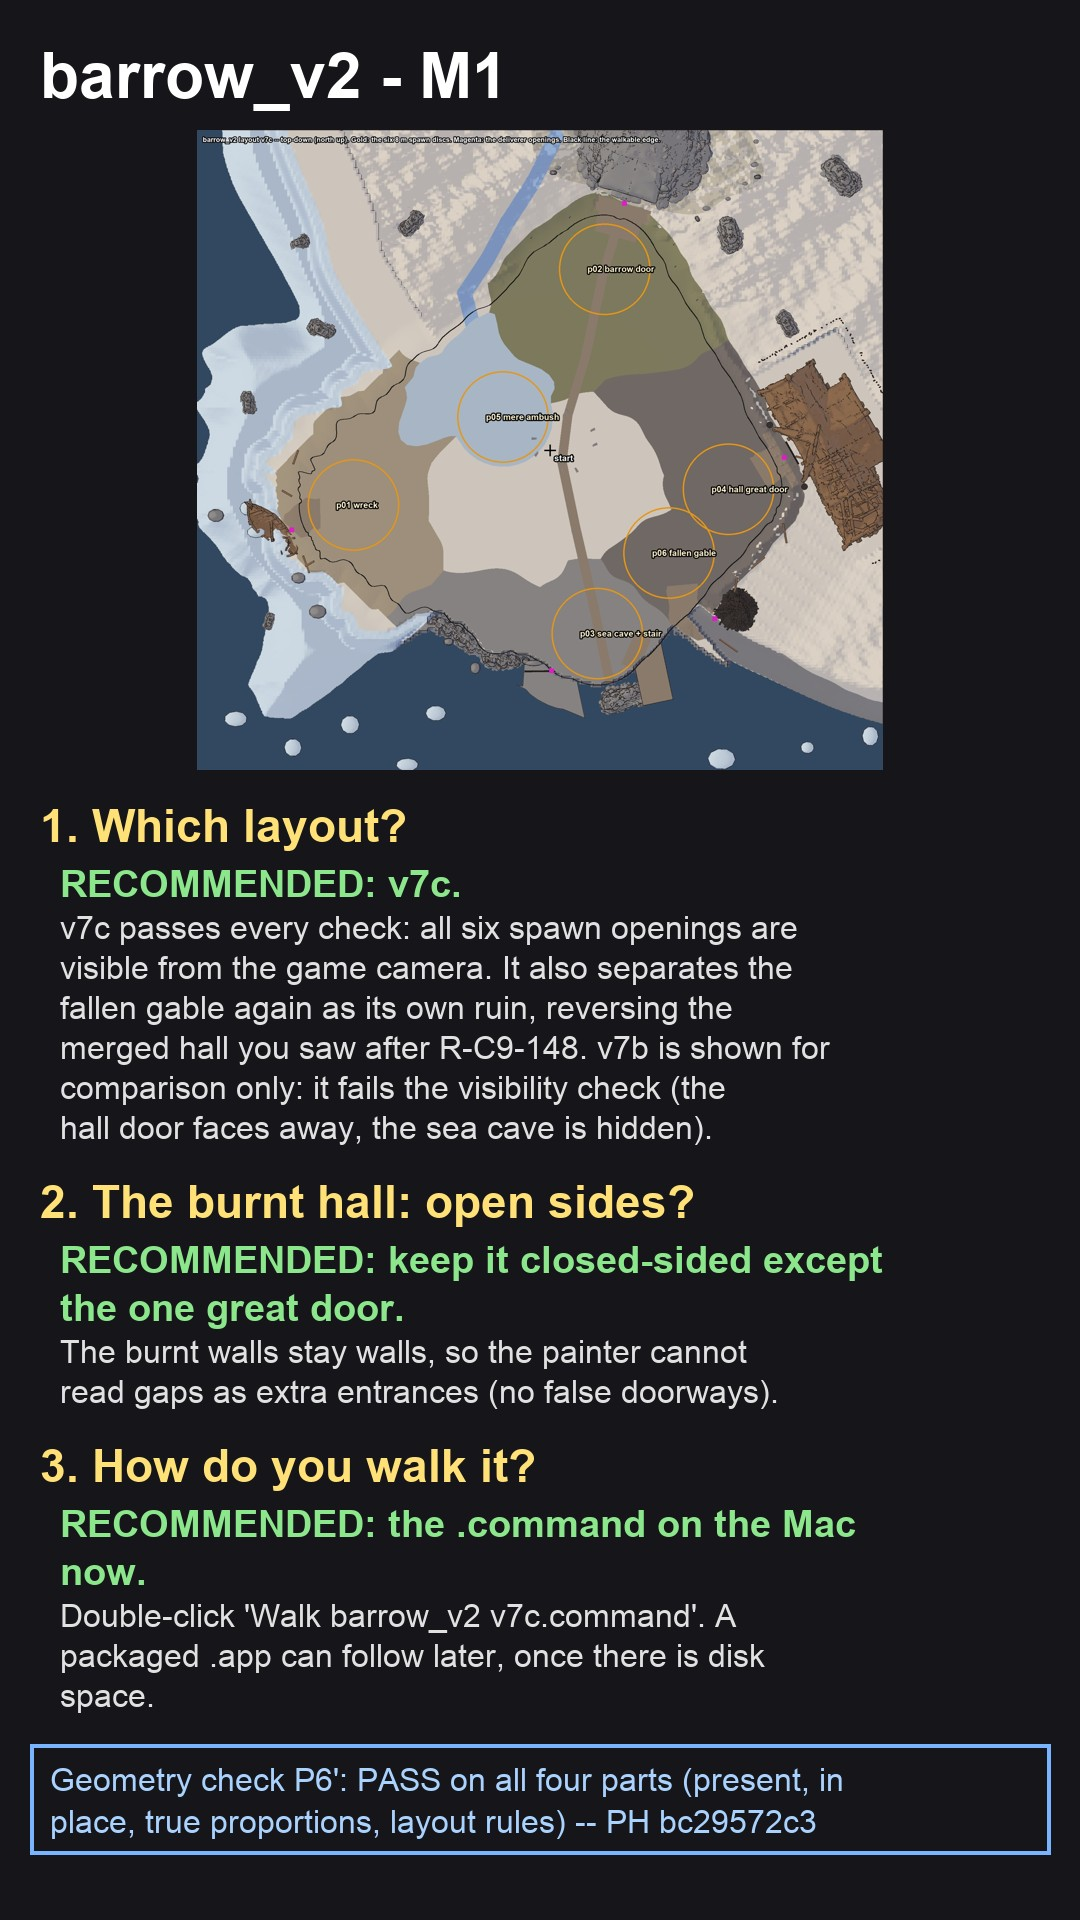
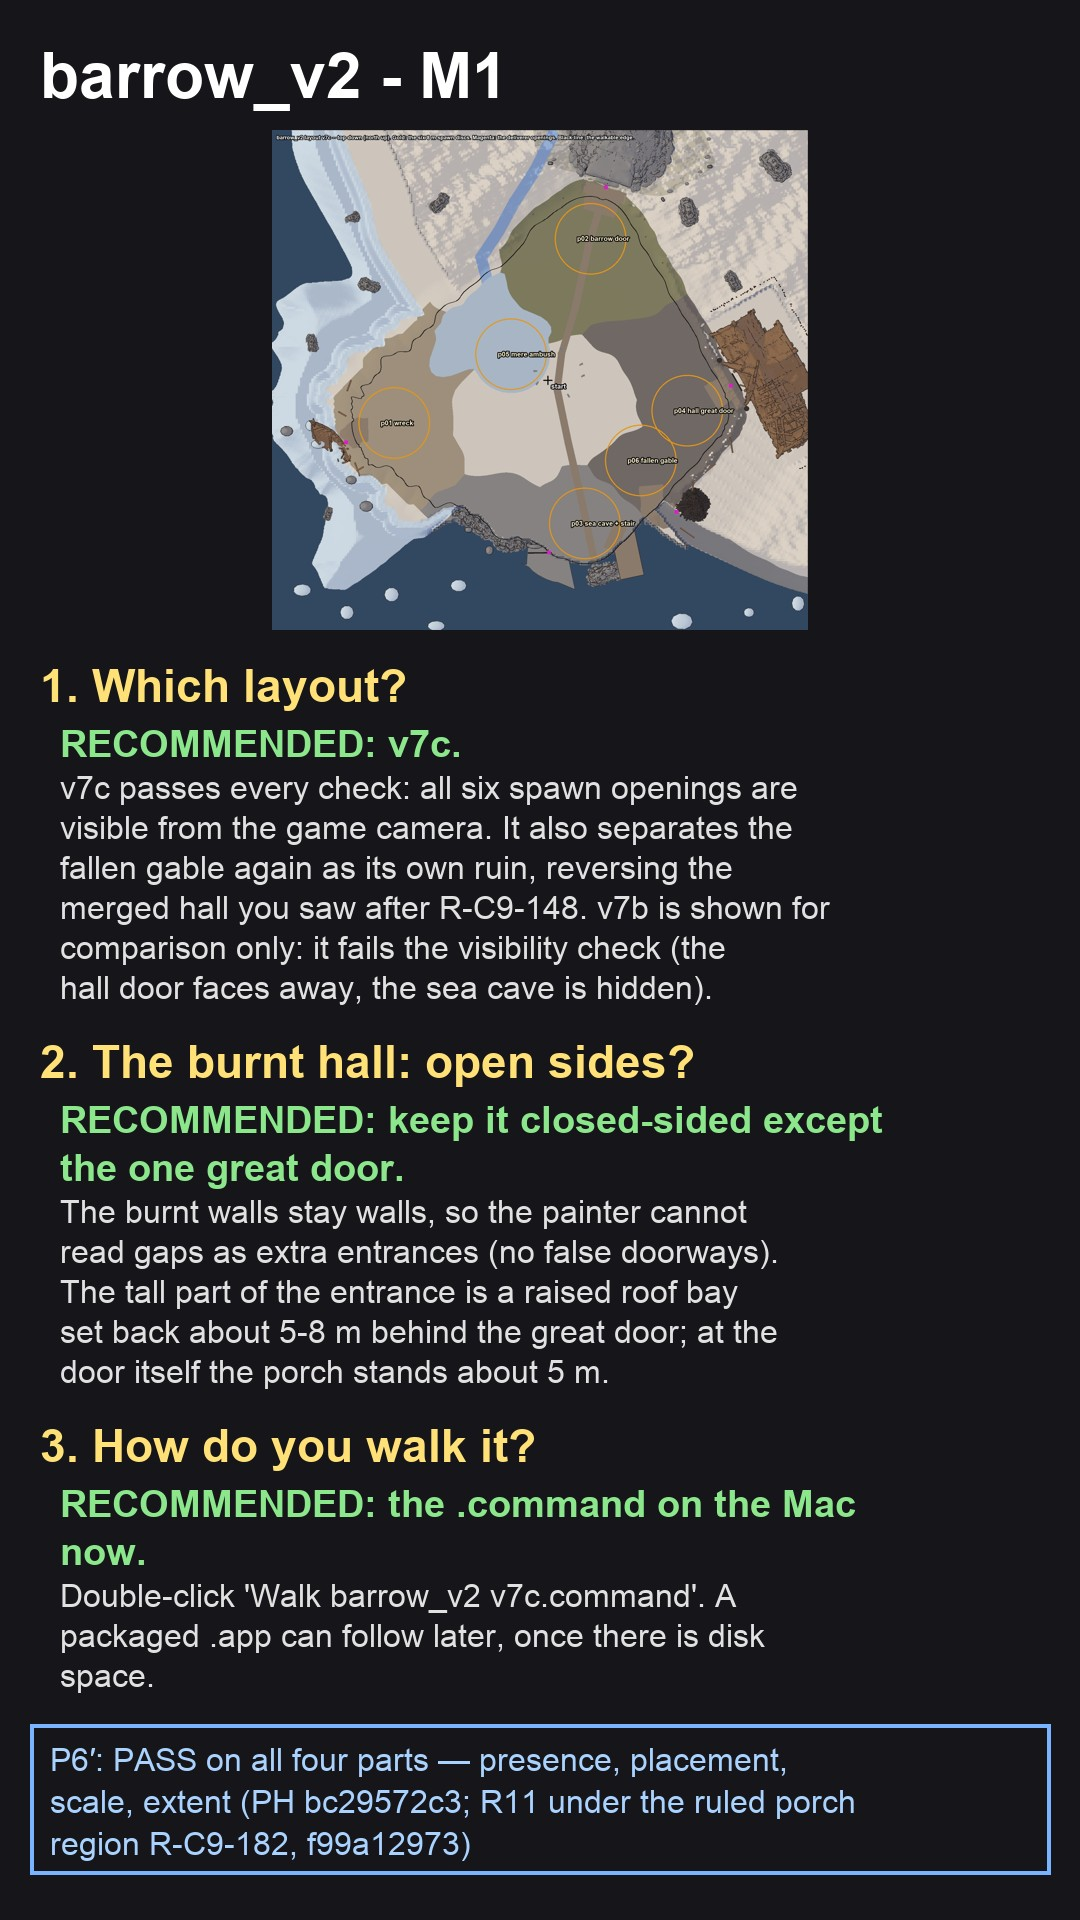
drax(C-9 P2 BV2F LV, R-C9-182/183): M1 cover -- ask 2 gains the porch-height clause; P6' PASS line on the cover and README top
Claude-Session: https://claude.ai/code/session_01Synmhf8YqWSEU9Kpsm5JJK

Changed region(s): [[0.0306, 0.0625, 0.825, 1.0], [0.9472, 0.9688, 0.9778, 1.0], [0.0306, 0.3438, 0.0611, 0.375]]

diff --git a/astra_test_01/burst/runs/C-9/barrow_v2/fid/lv/tools/lv_m1_cover.py b/astra_test_01/burst/runs/C-9/barrow_v2/fid/lv/tools/lv_m1_cover.py
@@ -11,11 +11,11 @@ f = lambda n: ImageFont.truetype("/System/Library/Fonts/Supplemental/Arial Bold.
 fr = lambda n: ImageFont.truetype("/System/Library/Fonts/Supplemental/Arial.ttf", n)
 y = 40
 d.text((40, y), "barrow_v2 - M1", fill=(255, 255, 255), font=f(64)); y += 90
-mp = Image.open(os.path.join(M1, "M1_map_v7c.jpg")).convert("RGB"); mp.thumbnail((1000, 640))
+mp = Image.open(os.path.join(M1, "M1_map_v7c.jpg")).convert("RGB"); mp.thumbnail((1000, 500))
 im.paste(mp, ((W - mp.width) // 2, y)); y += mp.height + 30
 asks = [
     ("1. Which layout?", "RECOMMENDED: v7c.", "v7c passes every check: all six spawn openings are visible from the game camera. It also separates the fallen gable again as its own ruin, reversing the merged hall you saw after R-C9-148. v7b is shown for comparison only: it fails the visibility check (the hall door faces away, the sea cave is hidden)."),
-    ("2. The burnt hall: open sides?", "RECOMMENDED: keep it closed-sided except the one great door.", "The burnt walls stay walls, so the painter cannot read gaps as extra entrances (no false doorways)."),
+    ("2. The burnt hall: open sides?", "RECOMMENDED: keep it closed-sided except the one great door.", "The burnt walls stay walls, so the painter cannot read gaps as extra entrances (no false doorways). The tall part of the entrance is a raised roof bay set back about 5-8 m behind the great door; at the door itself the porch stands about 5 m."),
     ("3. How do you walk it?", "RECOMMENDED: the .command on the Mac now.", "Double-click 'Walk barrow_v2 v7c.command'. A packaged .app can follow later, once there is disk space."),
 ]
 for t, rec, why in asks:
@@ -25,8 +25,8 @@ for t, rec, why in asks:
     for line in textwrap.wrap(why, 52):
         d.text((60, y), line, fill=(225, 225, 225), font=fr(32)); y += 40
     y += 26
-d.rectangle([30, y, W - 30, y + 110], outline=(120, 180, 255), width=4)
-for i, line in enumerate(textwrap.wrap(P6, 56)[:2]):
+d.rectangle([30, y, W - 30, y + 150], outline=(120, 180, 255), width=4)
+for i, line in enumerate(textwrap.wrap(P6, 56)[:3]):
     d.text((50, y + 18 + 42 * i), line, fill=(170, 210, 255), font=fr(32))
 im.save(os.path.join(M1, "M1_cover.jpg"), quality=90)
-print("cover", y + 110, "px used of", H)
+print("cover", y + 150, "px used of", H)

diff --git a/astra_test_01/burst/runs/C-9/barrow_v2/fid/lv/M1/M1_README.md b/astra_test_01/burst/runs/C-9/barrow_v2/fid/lv/M1/M1_README.md
@@ -4,10 +4,10 @@
    - v7c passes check (a): all six openings are visible.
    - v7c separates the fallen gable again as its own ruin. This reverses the merged hall Matt saw after R-C9-148.
    - v7b is **comparison only**: it fails check (a).
-2. **The burnt hall: open sides?** Recommended: **keep the ruin closed-sided except the one declared great door**, so there are no false entrances.
+2. **The burnt hall: open sides?** Recommended: **keep the ruin closed-sided except the one declared great door**, so there are no false entrances. The tall part of the entrance is a raised roof bay set back about 5–8 m behind the great door; at the door itself the porch stands about 5 m.
 3. **The walk:** Recommended: the **.command on the Mac now**. A packaged .app can come later.
 
-P6′ result: _(the conductor fills this slot after PH's re-run)_.
+P6′: PASS on all four parts — presence, placement, scale, extent (PH bc29572c3; R11 under the ruled porch region R-C9-182, f99a12973)
 
 ---
 
